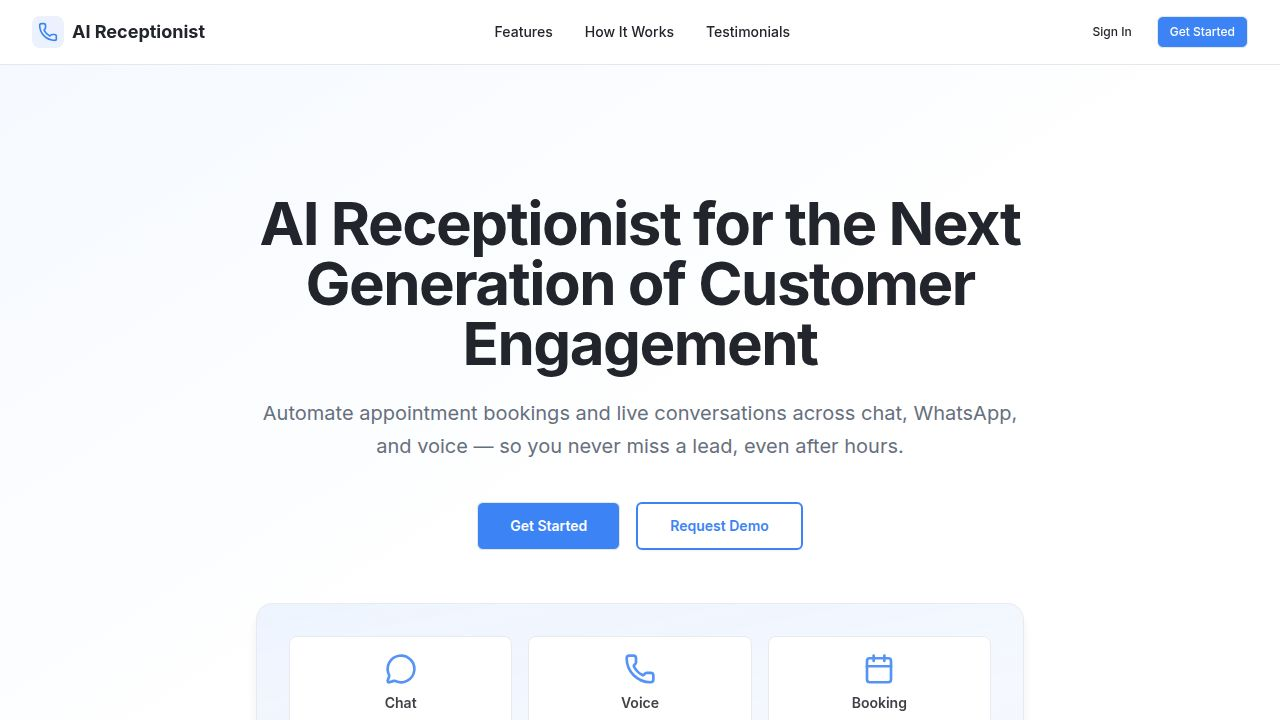
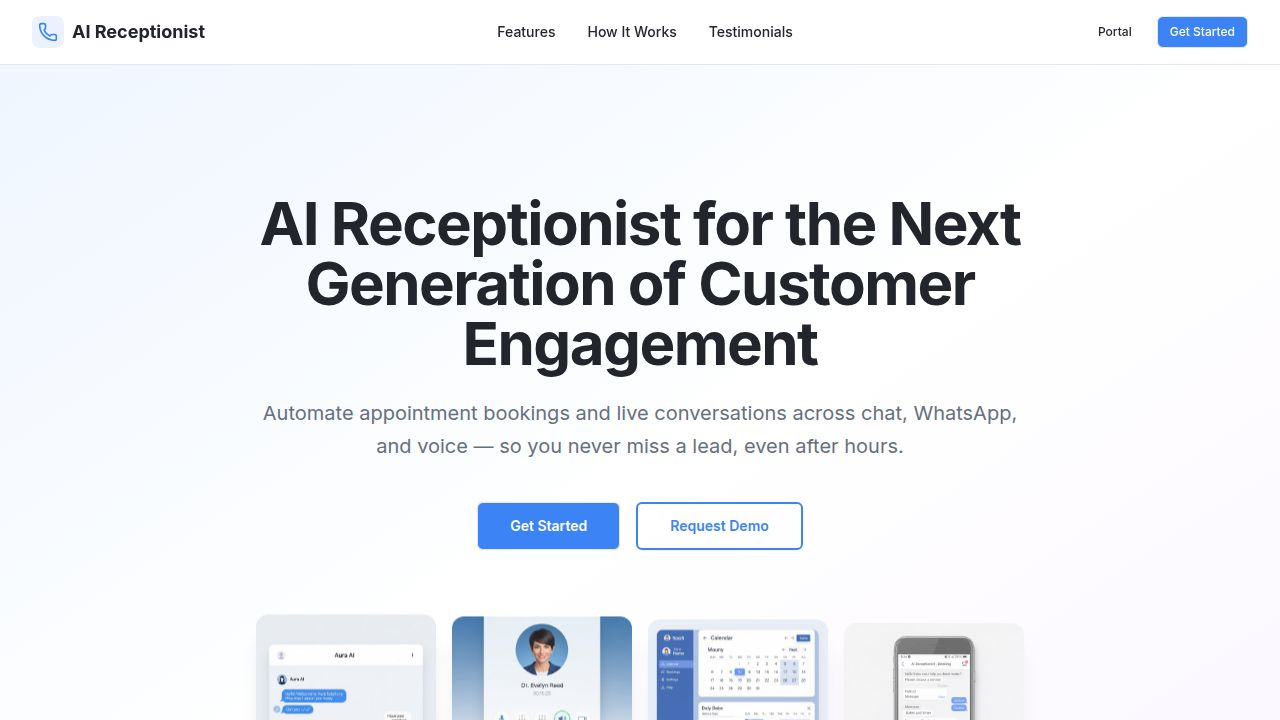
Add a customer portal for usage and preferences
Create a new customer portal page with usage statistics and channel preferences, and integrate it into the application's routing and navigation.

Replit-Commit-Author: Agent
Replit-Commit-Session-Id: 81244294-6e4e-445b-87a2-4be1a559bf89
Replit-Commit-Checkpoint-Type: full_checkpoint
Replit-Commit-Event-Id: 5e575276-73ce-48bc-a0d3-c3b91fe95bf3
Replit-Commit-Screenshot-Url: https://storage.googleapis.com/screenshot-production-us-central1/f84e3520-2f00-4cd1-b807-1f6a9fb0f33a/81244294-6e4e-445b-87a2-4be1a559bf89/JLPi2bQ
Replit-Helium-Checkpoint-Created: true

diff --git a/client/src/pages/portal.tsx b/client/src/pages/portal.tsx
@@ -1,0 +1,241 @@
+import { useState } from "react";
+import { motion } from "framer-motion";
+import {
+  Phone,
+  MessageCircle,
+  Calendar,
+  Settings,
+  LogOut,
+  BarChart3,
+  Zap,
+  MoveDiagonal2,
+} from "lucide-react";
+import { Button } from "@/components/ui/button";
+import { Card, CardContent, CardHeader, CardTitle } from "@/components/ui/card";
+import { Switch } from "@/components/ui/switch";
+import { Link } from "wouter";
+
+const mockUser = {
+  name: "Sarah Johnson",
+  email: "sarah@example.com",
+  company: "Digital Agency Inc",
+};
+
+const mockUsage = [
+  {
+    label: "Voice Calls Handled",
+    value: "1,247",
+    icon: Phone,
+    color: "text-blue-600",
+    bgColor: "bg-blue-50",
+  },
+  {
+    label: "Chat Messages",
+    value: "8,392",
+    icon: MessageCircle,
+    color: "text-green-600",
+    bgColor: "bg-green-50",
+  },
+  {
+    label: "Appointments Booked",
+    value: "543",
+    icon: Calendar,
+    color: "text-purple-600",
+    bgColor: "bg-purple-50",
+  },
+];
+
+const mockPreferences = [
+  {
+    id: "voice",
+    label: "Voice Channel",
+    description: "Enable AI to answer phone calls",
+    icon: Phone,
+    enabled: true,
+  },
+  {
+    id: "chat",
+    label: "Chat Widget",
+    description: "Enable live chat on your website",
+    icon: MessageCircle,
+    enabled: true,
+  },
+  {
+    id: "whatsapp",
+    label: "WhatsApp Integration",
+    description: "Enable booking via WhatsApp",
+    icon: Zap,
+    enabled: false,
+  },
+  {
+    id: "calendar",
+    label: "Calendar Sync",
+    description: "Auto-sync with your calendar",
+    icon: Calendar,
+    enabled: true,
+  },
+];
+
+export default function Portal() {
+  const [preferences, setPreferences] = useState(mockPreferences);
+
+  const togglePreference = (id: string) => {
+    setPreferences(
+      preferences.map((pref) =>
+        pref.id === id ? { ...pref, enabled: !pref.enabled } : pref
+      )
+    );
+  };
+
+  return (
+    <div className="min-h-screen bg-gradient-to-br from-slate-50 to-blue-50 text-foreground">
+      {/* Header */}
+      <nav className="sticky top-0 z-50 bg-white/90 backdrop-blur-sm border-b border-border">
+        <div className="max-w-7xl mx-auto px-4 sm:px-6 lg:px-8">
+          <div className="flex justify-between items-center h-16">
+            <Link href="/">
+              <div className="flex items-center gap-2 cursor-pointer hover:opacity-70 transition-opacity">
+                <div className="w-8 h-8 rounded-lg bg-primary/10 flex items-center justify-center">
+                  <Phone className="w-5 h-5 text-primary" />
+                </div>
+                <span className="font-heading font-bold text-lg">
+                  AI Receptionist
+                </span>
+              </div>
+            </Link>
+
+            <div className="flex items-center gap-4">
+              <span className="text-sm text-muted-foreground hidden sm:inline">
+                {mockUser.email}
+              </span>
+              <Button variant="outline" size="sm">
+                <LogOut className="w-4 h-4 mr-2" />
+                Sign Out
+              </Button>
+            </div>
+          </div>
+        </div>
+      </nav>
+
+      {/* Main Content */}
+      <div className="max-w-6xl mx-auto px-4 sm:px-6 lg:px-8 py-12">
+        {/* Welcome Section */}
+        <motion.div
+          initial={{ opacity: 0, y: 20 }}
+          animate={{ opacity: 1, y: 0 }}
+          className="mb-12"
+        >
+          <h1 className="text-4xl font-heading font-bold mb-2">
+            Welcome back, {mockUser.name}!
+          </h1>
+          <p className="text-lg text-muted-foreground">{mockUser.company}</p>
+        </motion.div>
+
+        {/* Usage Stats */}
+        <motion.div
+          initial={{ opacity: 0, y: 20 }}
+          animate={{ opacity: 1, y: 0 }}
+          transition={{ delay: 0.1 }}
+          className="mb-12"
+        >
+          <div className="flex items-center gap-2 mb-6">
+            <BarChart3 className="w-6 h-6 text-primary" />
+            <h2 className="text-2xl font-heading font-bold">Your Usage</h2>
+          </div>
+
+          <div className="grid md:grid-cols-3 gap-6">
+            {mockUsage.map((stat, idx) => {
+              const Icon = stat.icon;
+              return (
+                <motion.div
+                  key={idx}
+                  initial={{ opacity: 0, y: 20 }}
+                  animate={{ opacity: 1, y: 0 }}
+                  transition={{ delay: 0.1 + idx * 0.05 }}
+                >
+                  <Card className="border-border hover:border-primary/50 transition-all">
+                    <CardContent className="p-6">
+                      <div className={`w-12 h-12 rounded-lg ${stat.bgColor} flex items-center justify-center mb-4`}>
+                        <Icon className={`w-6 h-6 ${stat.color}`} />
+                      </div>
+                      <p className="text-sm text-muted-foreground mb-1">
+                        {stat.label}
+                      </p>
+                      <p className="text-3xl font-heading font-bold">
+                        {stat.value}
+                      </p>
+                    </CardContent>
+                  </Card>
+                </motion.div>
+              );
+            })}
+          </div>
+        </motion.div>
+
+        {/* Preferences/Settings */}
+        <motion.div
+          initial={{ opacity: 0, y: 20 }}
+          animate={{ opacity: 1, y: 0 }}
+          transition={{ delay: 0.2 }}
+        >
+          <div className="flex items-center gap-2 mb-6">
+            <Settings className="w-6 h-6 text-primary" />
+            <h2 className="text-2xl font-heading font-bold">Preferences</h2>
+          </div>
+
+          <Card className="border-border">
+            <CardContent className="p-8">
+              <div className="space-y-6">
+                {preferences.map((pref, idx) => {
+                  const Icon = pref.icon;
+                  return (
+                    <motion.div
+                      key={pref.id}
+                      initial={{ opacity: 0, x: -20 }}
+                      animate={{ opacity: 1, x: 0 }}
+                      transition={{ delay: 0.25 + idx * 0.05 }}
+                      className="flex items-center justify-between p-4 rounded-lg border border-border hover:border-primary/30 transition-colors"
+                    >
+                      <div className="flex items-center gap-4">
+                        <div className="w-10 h-10 rounded-lg bg-primary/10 flex items-center justify-center">
+                          <Icon className="w-5 h-5 text-primary" />
+                        </div>
+                        <div>
+                          <p className="font-semibold text-foreground">
+                            {pref.label}
+                          </p>
+                          <p className="text-sm text-muted-foreground">
+                            {pref.description}
+                          </p>
+                        </div>
+                      </div>
+                      <Switch
+                        checked={pref.enabled}
+                        onCheckedChange={() => togglePreference(pref.id)}
+                      />
+                    </motion.div>
+                  );
+                })}
+              </div>
+            </CardContent>
+          </Card>
+
+          {/* Save Button */}
+          <div className="mt-8 flex gap-4">
+            <Button
+              size="lg"
+              className="bg-primary hover:bg-primary/90 text-white"
+            >
+              Save Preferences
+            </Button>
+            <Link href="/">
+              <Button size="lg" variant="outline">
+                Back to Home
+              </Button>
+            </Link>
+          </div>
+        </motion.div>
+      </div>
+    </div>
+  );
+}

diff --git a/client/src/pages/home.tsx b/client/src/pages/home.tsx
@@ -1,5 +1,6 @@
 import { useState } from "react";
 import { motion } from "framer-motion";
+import { Link } from "wouter";
 import {
   Phone,
   MessageCircle,
@@ -48,10 +49,12 @@ export default function Home() {
             </div>
 
             <div className="flex items-center gap-3">
-              <Button variant="ghost" size="sm">
-                Sign In
-              </Button>
-              <Button size="sm" className="bg-primary hover:bg-primary/90 text-white">
+              <Link href="/portal">
+                <Button variant="ghost" size="sm" data-testid="button-signin">
+                  Portal
+                </Button>
+              </Link>
+              <Button size="sm" className="bg-primary hover:bg-primary/90 text-white" data-testid="button-get-started">
                 Get Started
               </Button>
             </div>

diff --git a/client/src/App.tsx b/client/src/App.tsx
@@ -5,11 +5,13 @@ import { Toaster } from "@/components/ui/toaster";
 import { TooltipProvider } from "@/components/ui/tooltip";
 import NotFound from "@/pages/not-found";
 import Home from "@/pages/home";
+import Portal from "@/pages/portal";
 
 function Router() {
   return (
     <Switch>
       <Route path="/" component={Home} />
+      <Route path="/portal" component={Portal} />
       <Route component={NotFound} />
     </Switch>
   );
